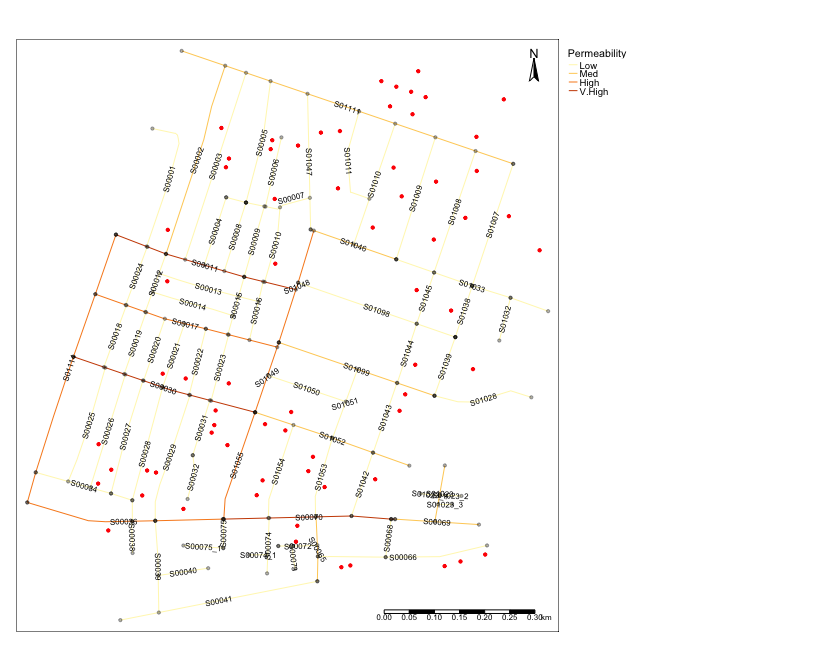
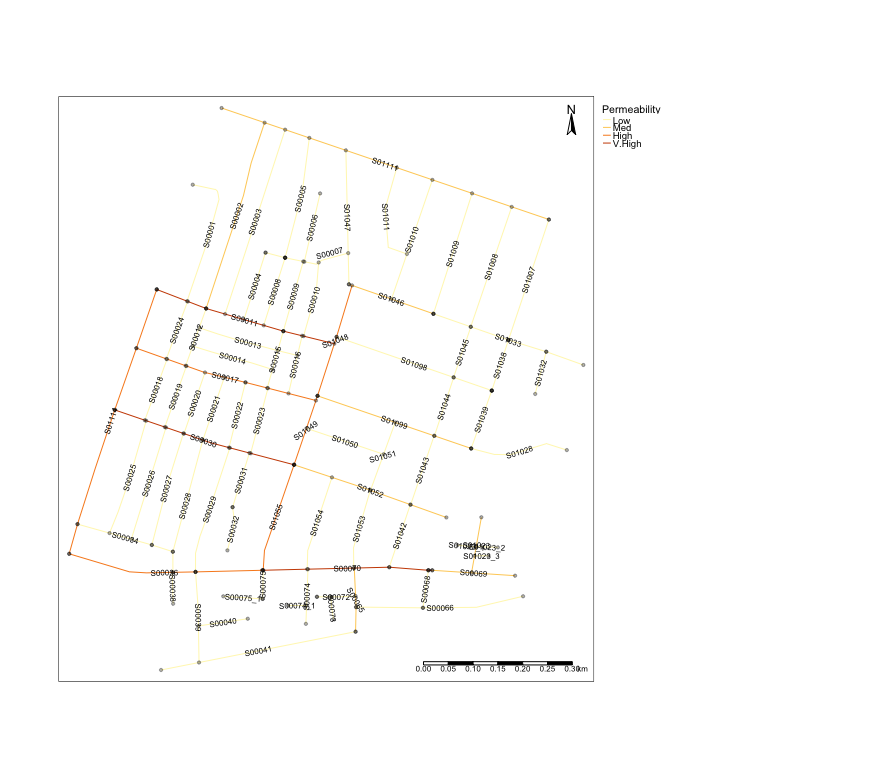
Final updates to practical lessons

diff --git a/docs/index.html b/docs/index.html
@@ -245,13 +245,10 @@ $(document).ready(function () {
   <a href="index.html">1. Getting Started</a>
 </li>
 <li>
-  <a href="network_analysis.html">2. Obtaining Accessibility Measurements</a>
+  <a href="network_analysis.html">2. Network Analysis &amp; Mapping</a>
 </li>
 <li>
-  <a href="applications_to_crime.html">3. Street Network Analysis in Crime</a>
-</li>
-<li>
-  <a href="recommendations.html">4. Recommended Readings</a>
+  <a href="recommendations.html">3. Recommended Readings</a>
 </li>
       </ul>
       <ul class="nav navbar-nav navbar-right">
@@ -318,19 +315,20 @@ pre code, pre, code {
 <div id="lets-begin" class="section level2">
 <h2><strong>1.1. Let’s begin</strong></h2>
 <p><strong>Background</strong>: Street configuration, transportation &amp; shipping routes, river basins and telecommunication lines etc., are all examples of spatial networks, a spatial network is an organised system or collection of <strong>nodes</strong> and <strong>edges</strong> embedded space. <strong>Nodes</strong> can be a representation of physical objects in geographical space, and <strong>edges</strong> show what connections are formed between the objects. For instance, when we take street segments (i.e., roads, streets, motorways etc.,) and the intersections connecting more than one street segment from an area, a <strong>node</strong> can typically represent the street segment itself while the <strong>edges</strong> represents the intersections that connect the street. Network analysis in particular have many applications, such examples includes social network science (Facebook, Twitter etc.,), infectious and sexually transmitted disease epidemiology for contact tracing and networks, and quantitative criminology particularly for determining gang networks and estimating crime patterns.</p>
-<p><strong>Objectives</strong>: In this tutorial you will be introduced to spatial networks analysis in RStudio in order to determine key measures for centrality: <strong>connectivity</strong>, <strong>shortness path</strong> and <strong>centrality betweeness</strong>. These three measure in particular are key measures for accessibility which are, in this context, risk factors that play a significant role in the occurrence of certain outcomes (e.g., crime). You will learn this in the context of quantitative criminology.</p>
+<p><strong>Objectives</strong>: In this tutorial you will be introduced to spatial networks analysis in RStudio in order to determine key measures for centrality: <strong>connectivity</strong>, <strong>shortness path</strong> and <strong>centrality betweeness</strong>. You will learn this in the context of street network analysis.</p>
 <p>These are the key tasks:</p>
 <ul>
 <li>Learning how to create a network structure with nodes and edges</li>
 <li>Visualising a network structure</li>
 <li>Estimating the measures for accessibility: <strong>connectivity</strong>, <strong>shortness path</strong> and <strong>centrality betweeness</strong>.</li>
-<li><strong>Application</strong>: how to use these measures in model for evidence-based research for the predicting risk of crime victimisation such as burglaries. This example will be situated in a second-tier city called <code>Badawara-Malali</code>, which is in Nigeria, a sub-Saharan African country <a href="https://www.sciencedirect.com/science/article/abs/pii/S0143622818311949?via%3Dihub">(see Musah <em>et al</em>, 2020)</a>.</li>
+<li>Integrating these metrics into polyline maps</li>
+<li>We will data adopted in a street network analysis for predicting crimes in a Nigerian city called <code>Badawara-Malali</code> <a href="https://www.sciencedirect.com/science/article/abs/pii/S0143622818311949?via%3Dihub"><strong>see Musah et al, 2020</strong></a>.</li>
 </ul>
 <p></br></p>
 </div>
 <div id="data-sets-setting-up-the-work-directory" class="section level2">
 <h2><strong>1.2. Data sets &amp; setting up the work directory</strong></h2>
-<p>Before you begin do make sure to download all data from <a href=""><strong>HERE</strong></a>. If you are working from a UCL workstation, do create a folder called “<strong>Week 10</strong>” within your “<strong>GEOG0114</strong>” folder stored in the N-drive. Extract all data from the zip folder and stored into “<strong>Week 10</strong>” folder. Open a new R script and set the work directory to <strong>Week 10’s</strong> folder (i.e., <strong>Home (N:) &gt; GEOG0114 &gt; Week 10</strong>)</p>
+<p>Before you begin do make sure to download all data from <a href="https://github.com/UCLPG-MSC-SGDS/GEOG0114-PSA-WK10/blob/main/Datasets.zip?raw=true"><strong>HERE</strong></a>. If you are working from a UCL workstation, do create a folder called “<strong>Week 10</strong>” within your “<strong>GEOG0114</strong>” folder stored in the N-drive. Extract all data from the zip folder and stored into “<strong>Week 10</strong>” folder. Open a new R script and set the work directory to <strong>Week 10’s</strong> folder (i.e., <strong>Home (N:) &gt; GEOG0114 &gt; Week 10</strong>)</p>
 <pre class="r"><code># Set working directory to Week 6 folder
 setwd(&quot;N:/GEOG0114/Week 10&quot;)</code></pre>
 <p></br></p>
@@ -367,23 +365,21 @@ library(&quot;MASS&quot;)</code></pre>
 <ul>
 <li>Shapefile: Polylines representing streets in a small Nigerian city of Badawara-Malali <code>Badawara-Malali Segments_3857.shp</code></li>
 <li>Shapefile: Points representing street intersections <code>Badawara-Malali Intersections_3857.shp</code></li>
-<li>Shapefile: Points of representing points of Burglaries</li>
 </ul>
 <p>Let use <code>tmap</code> functions to have a visual of the street configuration.</p>
 <pre class="r"><code># plot the line segments and intersections
 tm_shape(segments) + tm_lines() + tm_text(&quot;StreetCode&quot;, size = 0.5, along.lines = TRUE) +
     tm_shape(points) + tm_dots(size = 0.05, col = &quot;black&quot;, alpha = 0.3) +
-    tm_shape(burglaries) + tm_dots(size = 0.05, col = &quot;red&quot;) +
     tm_layout(frame = TRUE) +
     tm_compass(type = &quot;arrow&quot;, position = c(&quot;right&quot;, &quot;top&quot;)) +
     tm_scale_bar(position = c(&quot;right&quot;, &quot;bottom&quot;))</code></pre>
 <p></br></p>
 <center>
-<img src="Image1_1.png" title="fig:" height="600" alt="“/Volumes/Anwar-HHD/GEOG0114/Computer Labs/Week 10/GEOG0114-PSA-WK10”" />
+<img src="Rplot.png" title="fig:" height="600" alt="“/Volumes/Anwar-HHD/GEOG0114/Computer Labs/Week 10/GEOG0114-PSA-WK10”" />
 </center>
 <p></br></p>
 <p class="comment">
-<strong>What does this figure represent?</strong> The figure shows the <strong>actual</strong> spatial configuration of the street network in the study area of <code>Badawara-Malali</code>. The red points adjacent to street lines represent the locations reported number of times the property experienced a burglary in 2014/7. Each line segment is defined by a unique number e.g., <code>S00075</code> or <code>S00038</code> etc.,. Here, we can see the points of intersections between streets segments denoting which street segments are connected with each other. </br> </br> For instance, we can see that street <code>S00007</code> is actually connected to 6 other street segments i.e., <code>S00004</code>, <code>S00005</code>, <code>S00006</code>, <code>S00008</code>, <code>S00009</code> and <code>S00010</code>. When we check the <code>SpatialPolyLinesDataFrame</code> i.e., <code>segments</code>, it does not tell us this information about the connections, or road intersection etc.,. This is where <strong>Network Analysis</strong> comes in. </br> </br> In Network Analysis, the premise is to transform this into an alternate version comprised of <strong>nodes</strong> and <strong>edges</strong>. In this case, the <strong>nodes</strong> represent the street segments and the <strong>edge</strong> represents the connections or intersections between streets.The format of the data set for Network Analysis are arranged different from that of a point and line shapefile.
+<strong>What does this figure represent?</strong> The figure shows the <strong>actual</strong> spatial configuration of the street network in the study area of <code>Badawara-Malali</code>. Each line segment is defined by a unique number e.g., <code>S00075</code> or <code>S00038</code> etc.,. Here, we can see the points of intersections between streets segments denoting which street segments are connected with each other. </br> </br> For instance, we can see that street <code>S00007</code> is actually connected to 6 other street segments i.e., <code>S00004</code>, <code>S00005</code>, <code>S00006</code>, <code>S00008</code>, <code>S00009</code> and <code>S00010</code>. When we check the <code>SpatialPolyLinesDataFrame</code> i.e., <code>segments</code>, it does not tell us this information about the connections, or road intersection etc.,. This is where <strong>Network Analysis</strong> comes in. </br> </br> In Network Analysis, the premise is to transform this into an alternate version comprised of <strong>nodes</strong> and <strong>edges</strong>. In this case, the <strong>nodes</strong> represent the street segments and the <strong>edge</strong> represents the connections or intersections between streets.The format of the data set for Network Analysis are arranged different from that of a point and line shapefile.
 </p>
 <p></br></p>
 <p>Let us load the above spatial street data nodes and edges information:</p>

diff --git a/docs/network_analysis.html b/docs/network_analysis.html
@@ -245,13 +245,10 @@ $(document).ready(function () {
   <a href="index.html">1. Getting Started</a>
 </li>
 <li>
-  <a href="network_analysis.html">2. Obtaining Accessibility Measurements</a>
+  <a href="network_analysis.html">2. Network Analysis &amp; Mapping</a>
 </li>
 <li>
-  <a href="applications_to_crime.html">3. Street Network Analysis in Crime</a>
-</li>
-<li>
-  <a href="recommendations.html">4. Recommended Readings</a>
+  <a href="recommendations.html">3. Recommended Readings</a>
 </li>
       </ul>
       <ul class="nav navbar-nav navbar-right">
@@ -429,7 +426,7 @@ edge_attr(g2)</code></pre>
 ## 
 ## $Socioeco
 ## [1] &quot;Med&quot;  &quot;Low&quot;  &quot;Low&quot;  &quot;High&quot; &quot;Low&quot;  &quot;Low&quot;  &quot;High&quot;</code></pre>
-<p>We can play with the information and visualize it as well. But, we’ll need to carry out some cleaning first. Here, we’ll illustrate how to perform this on a this small set of data. We are going to do the following:</p>
+<p>We can play with the information and visualize it as well. But, we’ll need to carry out some cleaning first. Here, we’ll illustrate crudely how to perform this on a this small set of data. We are going to do the following:</p>
 <ul>
 <li>Weight the edges’ width using the distance (re-scaled by dividing by 100)</li>
 <li>Classify the nodes according to type of socioeconomic status with colors</li>
@@ -490,10 +487,9 @@ plot(network.structure, layout = layout_with_kk, vertex.color=&quot;white&quot;,
 <li><code>layout_in_circle</code></li>
 <li><code>layout_with_fr</code></li>
 <li><code>layout_with_kk</code></li>
-<li></li>
-<li></li>
-<li></li>
-<li></li>
+<li><code>layout_as_tree</code></li>
+<li><code>layout_on_grid</code></li>
+<li><code>layout_as_star</code></li>
 </ul>
 <p>However, the most popular approach for visualizing network structures is the Kamada Kawai alogrithm, which is <code>layout_with_kk</code> (used in the above code).</p>
 <p>Let extract the following network measures (or alternatively accessibility):</p>
@@ -536,7 +532,6 @@ tm_shape(segments) +
     tm_lines(col=&quot;betwCat&quot;, style=&quot;cat&quot;, labels = c(&quot;Low&quot;, &quot;Med&quot;, &quot;High&quot;,&quot;V.High&quot;), title.col=&quot;Permeability&quot;) + 
     tm_text(&quot;StreetCode&quot;, size = 0.5, along.lines = TRUE) +
     tm_shape(points) + tm_dots(size = 0.05, col = &quot;black&quot;, alpha = 0.3) +
-    tm_shape(burglaries) + tm_dots(size = 0.05, col = &quot;red&quot;) +
     tm_layout(frame = TRUE, legend.outside = TRUE, legend.title.size = 0.8, legend.text.size = 0.6) +
     tm_compass(type = &quot;arrow&quot;, position = c(&quot;right&quot;, &quot;top&quot;)) +
     tm_scale_bar(position = c(&quot;right&quot;, &quot;bottom&quot;)</code></pre>
@@ -554,7 +549,6 @@ tm_shape(segments) +
     tm_lines(col=&quot;ClosCat&quot;, style=&quot;cat&quot;, labels = c(&quot;Low&quot;, &quot;Med&quot;, &quot;High&quot;,&quot;V.High&quot;), title.col=&quot;Accessibility&quot;) + 
     tm_text(&quot;StreetCode&quot;, size = 0.5, along.lines = TRUE) +
     tm_shape(points) + tm_dots(size = 0.05, col = &quot;black&quot;, alpha = 0.3) +
-    tm_shape(burglaries) + tm_dots(size = 0.05, col = &quot;red&quot;) +
     tm_layout(frame = TRUE, legend.outside = TRUE, legend.title.size = 0.8, legend.text.size = 0.6) +
     tm_compass(type = &quot;arrow&quot;, position = c(&quot;right&quot;, &quot;top&quot;)) +
     tm_scale_bar(position = c(&quot;right&quot;, &quot;bottom&quot;))</code></pre>
@@ -566,15 +560,13 @@ tm_shape(segments) +
     tm_lines(col=&quot;connectivity&quot;, style=&quot;cont&quot;, palette = &quot;Reds&quot;, title.col=&quot;Connectivity&quot;) + 
     tm_text(&quot;StreetCode&quot;, size = 0.5, along.lines = TRUE) +
     tm_shape(points) + tm_dots(size = 0.05, col = &quot;black&quot;, alpha = 0.3) +
-    tm_shape(burglaries) + tm_dots(size = 0.05, col = &quot;red&quot;) +
     tm_layout(frame = TRUE, legend.outside = TRUE, legend.title.size = 0.8, legend.text.size = 0.6) +
     tm_compass(type = &quot;arrow&quot;, position = c(&quot;right&quot;, &quot;top&quot;)) +
     tm_scale_bar(position = c(&quot;right&quot;, &quot;bottom&quot;))</code></pre>
 <center>
 <img src="Image2_3.png" title="fig:" height="600" alt="“/Volumes/Anwar-HHD/GEOG0114/Computer Labs/Week 10/GEOG0114-PSA-WK10”" />
 </center>
-<p>This is how network analysis is integrated to get accessibility metrics. Let see how we use such measure to predict the risk of burglaries overall.</p>
-<a href="https://uclpg-msc-sgds.github.io/GEOG0114-PSA-WK10/applications_to_crime.html"><strong>&gt;&gt; Next Section &gt;&gt;</strong></a>
+<a href="https://uclpg-msc-sgds.github.io/GEOG0114-PSA-WK10/recommendations.html"><strong>&gt;&gt; Next Section &gt;&gt;</strong></a>
 <hr style="border:2px solid gray">
 </hr>
 </div>

diff --git a/docs/recommendations.html b/docs/recommendations.html
@@ -245,13 +245,10 @@ $(document).ready(function () {
   <a href="index.html">1. Getting Started</a>
 </li>
 <li>
-  <a href="network_analysis.html">2. Obtaining Accessibility Measurements</a>
+  <a href="network_analysis.html">2. Network Analysis &amp; Mapping</a>
 </li>
 <li>
-  <a href="applications_to_crime.html">3. Street Network Analysis in Crime</a>
-</li>
-<li>
-  <a href="recommendations.html">4. Recommended Readings</a>
+  <a href="recommendations.html">3. Recommended Readings</a>
 </li>
       </ul>
       <ul class="nav navbar-nav navbar-right">
@@ -317,17 +314,13 @@ pre code, pre, code {
 </hr>
 <div id="list-of-reading-materials" class="section level2">
 <h2><strong>4.1. List of Reading Materials</strong></h2>
-<p></br></p>
-</div>
-<div id="data-sources" class="section level2">
-<h2><strong>4.2. Data Sources</strong></h2>
-<p></br></p>
-</div>
-<div id="practice-exercise" class="section level2">
-<h2><strong>4.3. Practice Exercise</strong></h2>
-<p class="comment">
-<strong>IMPORTANT NOTES</strong>: Please do this in your free time.
-</p>
+<ol style="list-style-type: decimal">
+<li><p><strong>Book</strong>: Christopher D. Lloyd, (2010), Spatial Data Analysis: An Introduction for GIS Users, Chapter 6: Network Analysis, pages 75 to 85.</p></li>
+<li><p><strong>Article</strong>: Gilardi A et al., (2021), Street Networks in R. The R Journal (Pre-print) <a href="https://osf.io/78yub/"><strong>LINK</strong></a></p></li>
+<li><p><strong>Online Tutorial</strong>: Barbera P, (2017), Introduction to social network analysis with R, <a href="http://pablobarbera.com/big-data-upf/html/02a-networks-intro-visualization.html"><strong>LINK</strong></a></p></li>
+<li><p><strong>Online Tutorial</strong>: Chen Y, (2019), Introduction to Network Analysis Using R, <a href="https://yunranchen.github.io/intro-net-r/index.html"><strong>LINK</strong></a></p></li>
+<li><p><strong>Online Tutorial</strong>: Ognyanova K, (2016), Network Analysis and Visualization with R and igraph, <a href="https://yunranchen.github.io/intro-net-r/index.html"><strong>LINK</strong></a></p></li>
+</ol>
 <hr style="border:2px solid gray">
 </hr>
 </div>

diff --git a/docs/applications_to_crime.html b/docs/applications_to_crime.html
@@ -245,13 +245,10 @@ $(document).ready(function () {
   <a href="index.html">1. Getting Started</a>
 </li>
 <li>
-  <a href="network_analysis.html">2. Obtaining Accessibility Measurements</a>
+  <a href="network_analysis.html">2. Network Analysis &amp; Mapping</a>
 </li>
 <li>
-  <a href="applications_to_crime.html">3. Street Network Analysis in Crime</a>
-</li>
-<li>
-  <a href="recommendations.html">4. Recommended Readings</a>
+  <a href="recommendations.html">3. Recommended Readings</a>
 </li>
       </ul>
       <ul class="nav navbar-nav navbar-right">
